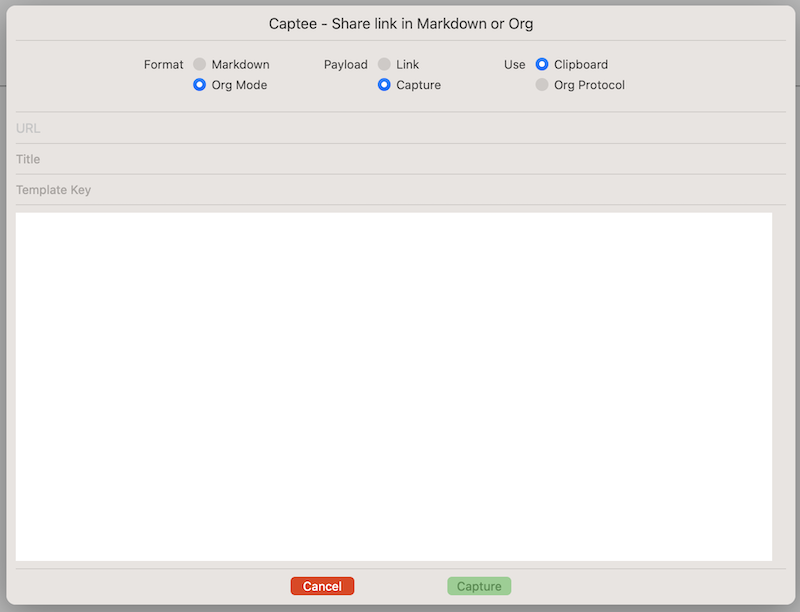
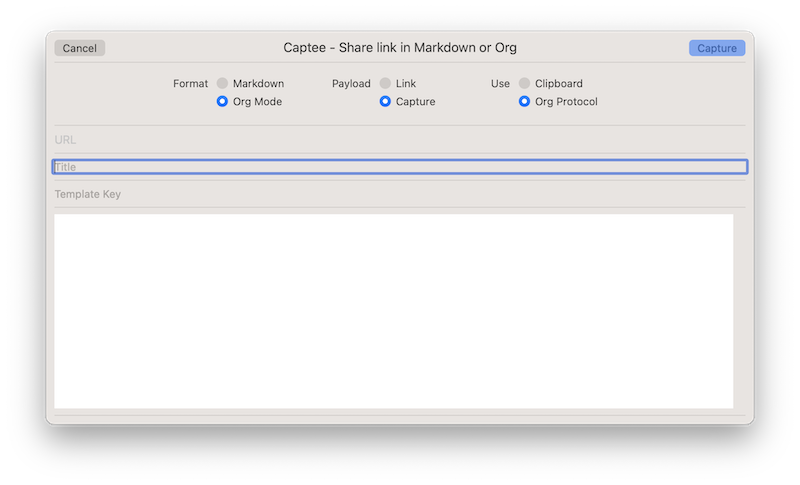
Retune Share Extension UI

diff --git a/Share2Emacs/UI/Share2EmacsViewController.swift b/Share2Emacs/UI/Share2EmacsViewController.swift
@@ -45,6 +45,12 @@ class Share2EmacsViewController: NSViewController {
         super.viewDidLoad()
     }
     
+    override func viewDidAppear() {
+        if let window = view.window {
+            window.makeFirstResponder(titleField)
+        }
+    }
+    
     override var nibName: NSNib.Name? {
         return NSNib.Name("Share2EmacsViewController")
     }
